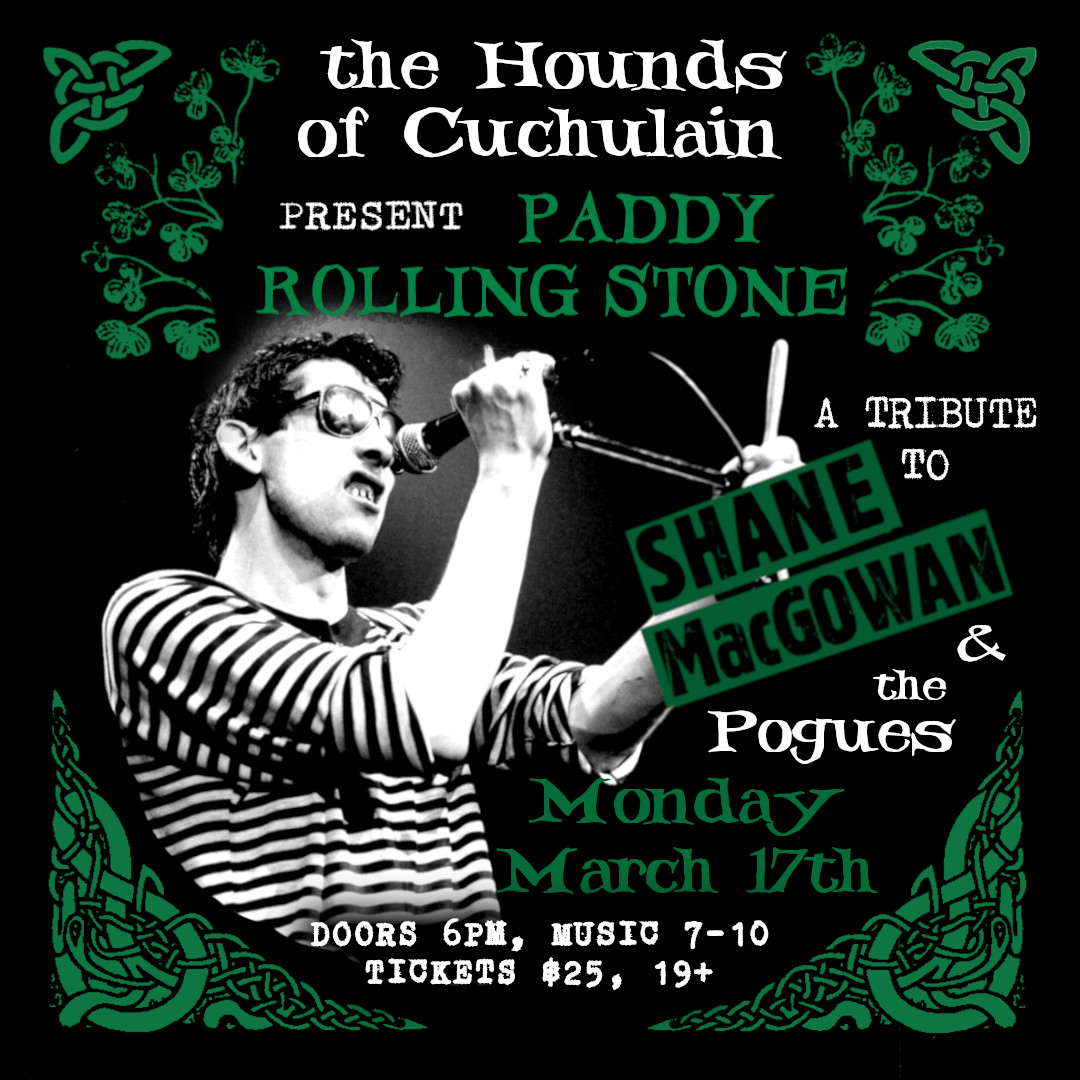
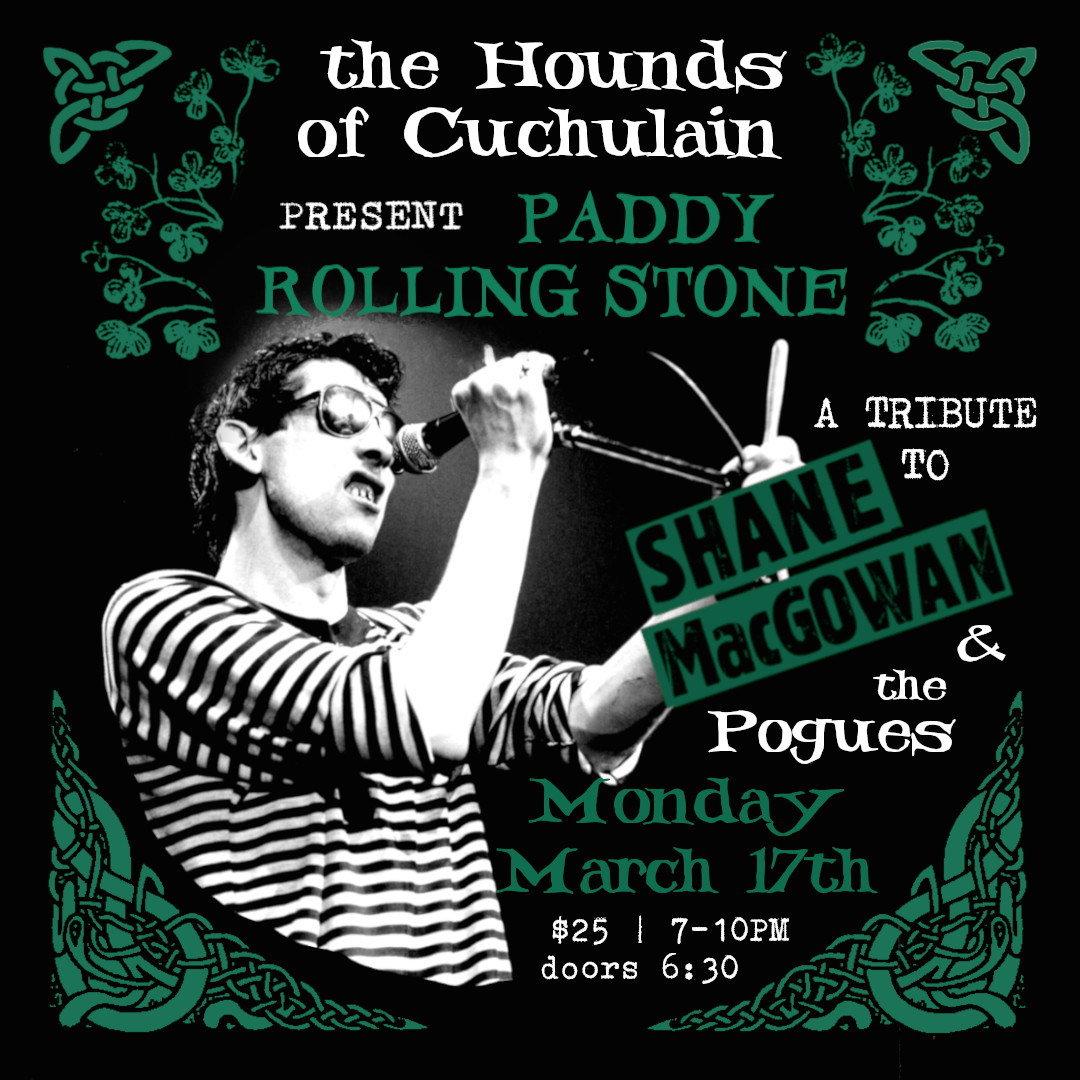
st pats events format update

diff --git a/events.html b/events.html
@@ -126,10 +126,12 @@
           <div class="show-date">Friday March 14th 7-9pm</div>
         </a>
 
-        <a class="show" href="">
-          <div class="show-title">St Pat's Party</div>
+        <a class="show" href="https://www.hounds-of-cuchulain.com/store.html#!/General-Admission-St-Patricks-Bash-March-15-2025/p/723325104">
+          <div class="show-title">The Hounds St Pat's Party</div>
           <div class="show-title">The Little Fernwood</div>
-          <div class="show-date">Saturday March 15th 7-10pm</div>
+          <div class="show-date">Saturday March 15th</div>
+          <div class="show-details">The Paul Philips Hall, 1923 Fernwood Road</div>
+          <div class="show-details">tickets $25, doors 6:30pm, music 7-9</div>
         </a>
 
         <!-- <a class="show" href="https://www.eventbrite.ca/e/victoria-st-patricks-day-party-2024-official-mega-party-tickets-853651874737"> -->
@@ -137,20 +139,20 @@
           <div class="show-title">Victoria St Patrick's Day Mega-Party</div>
           <div class="show-date">Sunday March 16th, Yates & Government</div>
           <div class="show-date">2:30-3:30pm</div>
-          <!-- <div class="show-date">Sunday March 16th, Yates & Government, $15</div>
-          <div class="show-date">Show starts 10:50am, Hounds set 1:45-2:25pm</div> -->
         </a>
 
         <a class="show" href="https://www.showroomproductions.ca/shows">
           <div class="show-title">St Patrick's Bash at the Duncan Showroom</div>
+          <div class="show-date">Sunday March 16th</div>
           <div class="show-details">Duncan Showroom, 133 Station Street, Duncan BC</div>
           <div class="show-details">tickets $25, doors 7pm, music 7:30</div>
         </a>
 
         <a class="show" href="https://www.hounds-of-cuchulain.com/store.html#!/Paddy-Rolling-Stone-Ticket/p/716084640">
           <div class="show-title">Paddy Rolling Stone St Pat's Pogues Tribute</div>
-          <div class="show-title">The Langham Court Theatre, 805 Langham Court</div>
-          <div class="show-date">Monday March 17th 7-10pm</div>
+          <div class="show-date">Monday March 17th</div>
+          <div class="show-details">The Langham Court Theatre, 805 Langham Court</div>
+          <div class="show-details">tickets $25, doors 6:30pm, music 7-10</div>
         </a>
         
         
